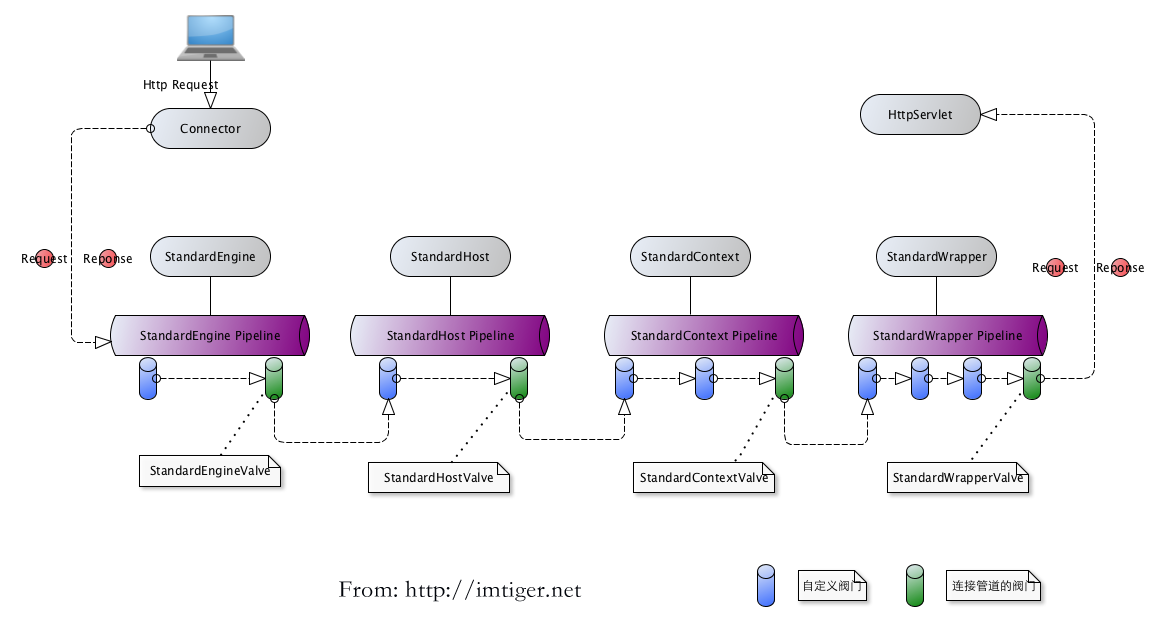
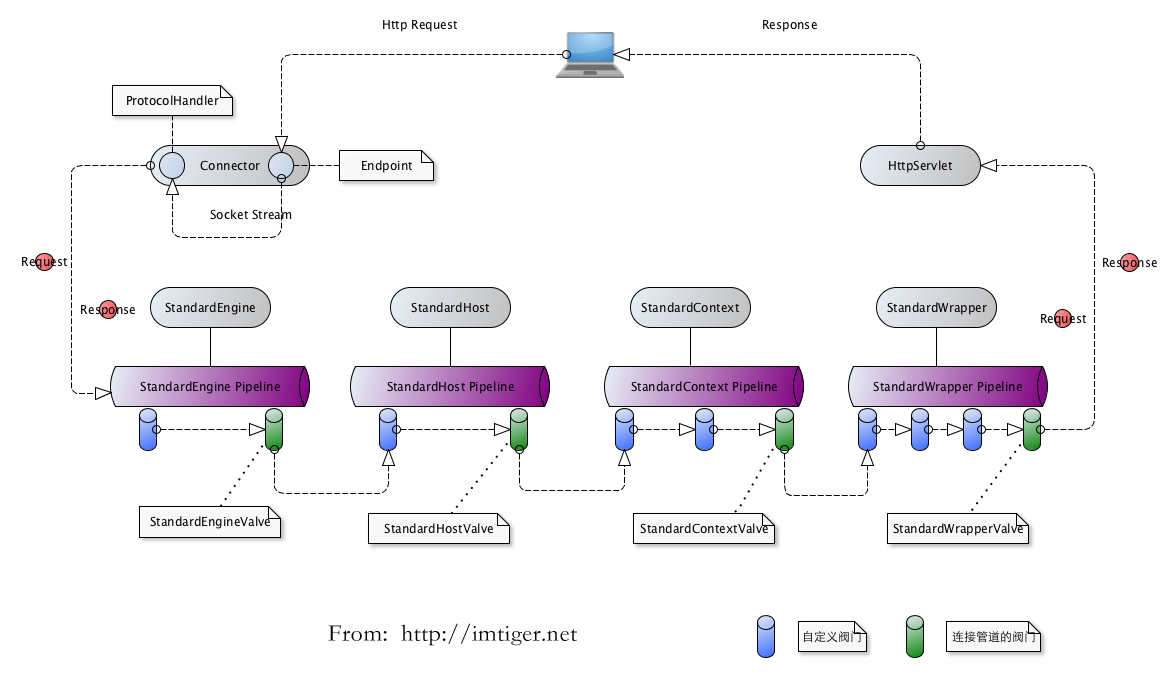
Site updated at 2013-11-13 08:21:36 UTC

diff --git a/blog/2013/10/24/tomcat-request-process/index.html b/blog/2013/10/24/tomcat-request-process/index.html
@@ -98,15 +98,16 @@
 本文是<a href="/blog/2013/10/08/tomcat-source-code-study/">Tomcat源代码阅读系列</a>的第五篇文章，本系列前四篇文章如下：<br/>
 <a href="/blog/2013/10/14/run-tomcat-in-idea-or-eclipse/">在IntelliJ IDEA 和 Eclipse运行tomcat 7源代码（Tomcat源代码阅读系列之一）</a> <br/>
 <a href="/blog/2013/10/16/tomcat-architecture/">Tomcat总体结构                             （Tomcat源代码阅读系列之二）</a><br/>
-<a href="/blog/2013/10/17/tomcat-start-process/">Tomcat启动过程（Tomcat源代码阅读系列之三）</a>
+<a href="/blog/2013/10/17/tomcat-start-process/">Tomcat启动过程（Tomcat源代码阅读系列之三）</a><br/>
 <a href="/blog/2013/10/21/tomcat-shutdown/">Tomcat关闭过程（Tomcat源代码阅读系列之四）</a></p>
 
-<p>前面已经分析完了Tomcat的启动和关闭过程，本篇就来接着分析一下Tomcat中请求的处理过程。</p>
+<p><img class="center" src="/images/2013/11/08/tomcat-pipeline.png">
+前面已经分析完了Tomcat的启动和关闭过程，本篇就来接着分析一下Tomcat中请求的处理过程。</p>
 
 <!-- more -->
 
 
-<p>在开始本文之前，咋们首先来看看一个Http请求处理的过程，一般情况下是<code>浏览器发送http请求-&gt;建立Socket连接-&gt;通过Socket读取数据-&gt;根据http协议解析数据-&gt;调用后台服务完成响应</code>,而Tomcat既是一个HttpServer也是一个Servlet 容器，那么这里必然也涉及到如上过程，首先根据HTTP协议规范解析请求数据，然后将请求转发给Servlet进行处理，因此顺应这样的思路，本文也将从<strong>Http协议请求解析</strong>，<strong>请求如何转发给Servlet</strong>两个方面来进行分析。首先来看Http协议请求解析。</p>
+<p>在开始本文之前，咋们首先来看看一个Http请求处理的过程，一般情况下是<code>浏览器发送http请求-&gt;建立Socket连接-&gt;通过Socket读取数据-&gt;根据http协议解析数据-&gt;调用后台服务完成响应</code>,详细的流程图如上图所示，等读者读完本篇，应该就清楚了上图所表达的意思。Tomcat既是一个HttpServer也是一个Servlet 容器，那么这里必然也涉及到如上过程，首先根据HTTP协议规范解析请求数据，然后将请求转发给Servlet进行处理，因此顺应这样的思路，本文也将从<strong>Http协议请求解析</strong>，<strong>请求如何转发给Servlet</strong>两个方面来进行分析。首先来看Http协议请求解析。</p>
 
 <h1>Http协议请求解析</h1>
 

diff --git a/blog/2013/09/27/java-engineer-recruitment/index.html b/blog/2013/09/27/java-engineer-recruitment/index.html
@@ -103,7 +103,7 @@
 月薪:    15k-20k</p>
 
 <p>公司介绍: <br/>
-我们公司<a href="http://www.ejushang.com">易居尚</a>秉承着<code>让品质走进生活的理念</code>，致力于打造一个品质、高效、便捷的居家用品网络销售平台.咋们公司不打卡，弹性工作制，每天下午有公司大厨做的下午茶，攻城狮童鞋每周可以自由支配20%的工作时间做自己想做的事情，我们技术团队内部有很强互助和知识分享意识（包括技术骚们喜欢的爱情动作片，嘘&hellip;，其他人我不告诉他）当然了还有很多美女和帅哥，想置身互联网和电子商务有理想的的技术骚们，请你加入我们 一起high，<strong>我们不求改变世界，但求超越自我</strong>。也请各位朋友帮忙推荐，推荐成功有神秘礼物相送哦，有意者请联系:<a href="&#109;&#97;&#x69;&#108;&#x74;&#x6f;&#x3a;&#x74;&#x69;&#103;&#x65;&#x72;&#x2e;&#122;&#104;&#x6f;&#117;&#64;&#107;&#x61;&#114;&#x69;&#x71;&#x75;&#x2e;&#99;&#111;&#x6d;">&#116;&#x69;&#x67;&#x65;&#x72;&#x2e;&#x7a;&#104;&#111;&#x75;&#64;&#x6b;&#x61;&#x72;&#105;&#113;&#117;&#x2e;&#x63;&#111;&#x6d;</a> 或者留言给我，另外也可以通过<a href="http://weibo.com/xmuzyq">@krq_tiger</a>新浪微博与我取的联系.</p>
+我们公司<a href="http://www.ejushang.com">易居尚</a>秉承着<code>让品质走进生活的理念</code>，致力于打造一个品质、高效、便捷的居家用品网络销售平台.咋们公司不打卡，弹性工作制，每天下午有公司大厨做的下午茶，攻城狮童鞋每周可以自由支配20%的工作时间做自己想做的事情，我们技术团队内部有很强互助和知识分享意识（包括技术骚们喜欢的爱情动作片，嘘&hellip;，其他人我不告诉他）当然了还有很多美女和帅哥，想置身互联网和电子商务有理想的的技术骚们，请你加入我们 一起high，<strong>我们不求改变世界，但求超越自我</strong>。也请各位朋友帮忙推荐，推荐成功有神秘礼物相送哦，有意者请联系:<a href="&#109;&#97;&#105;&#108;&#x74;&#111;&#58;&#116;&#105;&#x67;&#101;&#114;&#46;&#122;&#104;&#111;&#x75;&#x40;&#x6b;&#x61;&#114;&#x69;&#x71;&#117;&#46;&#x63;&#111;&#x6d;">&#116;&#105;&#x67;&#101;&#114;&#46;&#x7a;&#104;&#111;&#x75;&#64;&#107;&#97;&#114;&#105;&#113;&#117;&#46;&#x63;&#x6f;&#109;</a> 或者留言给我，另外也可以通过<a href="http://weibo.com/xmuzyq">@krq_tiger</a>新浪微博与我取的联系.</p>
 
 <!-- more -->
 

diff --git a/blog/page/2/index.html b/blog/page/2/index.html
@@ -130,7 +130,7 @@
 月薪:    15k-20k</p>
 
 <p>公司介绍: <br/>
-我们公司<a href="http://www.ejushang.com">易居尚</a>秉承着<code>让品质走进生活的理念</code>，致力于打造一个品质、高效、便捷的居家用品网络销售平台.咋们公司不打卡，弹性工作制，每天下午有公司大厨做的下午茶，攻城狮童鞋每周可以自由支配20%的工作时间做自己想做的事情，我们技术团队内部有很强互助和知识分享意识（包括技术骚们喜欢的爱情动作片，嘘&hellip;，其他人我不告诉他）当然了还有很多美女和帅哥，想置身互联网和电子商务有理想的的技术骚们，请你加入我们 一起high，<strong>我们不求改变世界，但求超越自我</strong>。也请各位朋友帮忙推荐，推荐成功有神秘礼物相送哦，有意者请联系:<a href="&#109;&#97;&#x69;&#108;&#x74;&#x6f;&#x3a;&#x74;&#x69;&#103;&#x65;&#x72;&#x2e;&#122;&#104;&#x6f;&#117;&#64;&#107;&#x61;&#114;&#x69;&#x71;&#x75;&#x2e;&#99;&#111;&#x6d;">&#116;&#x69;&#x67;&#x65;&#x72;&#x2e;&#x7a;&#104;&#111;&#x75;&#64;&#x6b;&#x61;&#x72;&#105;&#113;&#117;&#x2e;&#x63;&#111;&#x6d;</a> 或者留言给我，另外也可以通过<a href="http://weibo.com/xmuzyq">@krq_tiger</a>新浪微博与我取的联系.</p>
+我们公司<a href="http://www.ejushang.com">易居尚</a>秉承着<code>让品质走进生活的理念</code>，致力于打造一个品质、高效、便捷的居家用品网络销售平台.咋们公司不打卡，弹性工作制，每天下午有公司大厨做的下午茶，攻城狮童鞋每周可以自由支配20%的工作时间做自己想做的事情，我们技术团队内部有很强互助和知识分享意识（包括技术骚们喜欢的爱情动作片，嘘&hellip;，其他人我不告诉他）当然了还有很多美女和帅哥，想置身互联网和电子商务有理想的的技术骚们，请你加入我们 一起high，<strong>我们不求改变世界，但求超越自我</strong>。也请各位朋友帮忙推荐，推荐成功有神秘礼物相送哦，有意者请联系:<a href="&#109;&#97;&#105;&#108;&#x74;&#111;&#58;&#116;&#105;&#x67;&#101;&#114;&#46;&#122;&#104;&#111;&#x75;&#x40;&#x6b;&#x61;&#114;&#x69;&#x71;&#117;&#46;&#x63;&#111;&#x6d;">&#116;&#105;&#x67;&#101;&#114;&#46;&#x7a;&#104;&#111;&#x75;&#64;&#107;&#97;&#114;&#105;&#113;&#117;&#46;&#x63;&#x6f;&#109;</a> 或者留言给我，另外也可以通过<a href="http://weibo.com/xmuzyq">@krq_tiger</a>新浪微博与我取的联系.</p>
 
 
 		

diff --git a/blog/index.html b/blog/index.html
@@ -260,10 +260,11 @@
 本文是<a href="/blog/2013/10/08/tomcat-source-code-study/">Tomcat源代码阅读系列</a>的第五篇文章，本系列前四篇文章如下：<br/>
 <a href="/blog/2013/10/14/run-tomcat-in-idea-or-eclipse/">在IntelliJ IDEA 和 Eclipse运行tomcat 7源代码（Tomcat源代码阅读系列之一）</a> <br/>
 <a href="/blog/2013/10/16/tomcat-architecture/">Tomcat总体结构                             （Tomcat源代码阅读系列之二）</a><br/>
-<a href="/blog/2013/10/17/tomcat-start-process/">Tomcat启动过程（Tomcat源代码阅读系列之三）</a>
+<a href="/blog/2013/10/17/tomcat-start-process/">Tomcat启动过程（Tomcat源代码阅读系列之三）</a><br/>
 <a href="/blog/2013/10/21/tomcat-shutdown/">Tomcat关闭过程（Tomcat源代码阅读系列之四）</a></p>
 
-<p>前面已经分析完了Tomcat的启动和关闭过程，本篇就来接着分析一下Tomcat中请求的处理过程。</p>
+<p><img class="center" src="/images/2013/11/08/tomcat-pipeline.png">
+前面已经分析完了Tomcat的启动和关闭过程，本篇就来接着分析一下Tomcat中请求的处理过程。</p>
 
 
 		

diff --git a/index.html b/index.html
@@ -261,10 +261,11 @@
 本文是<a href="/blog/2013/10/08/tomcat-source-code-study/">Tomcat源代码阅读系列</a>的第五篇文章，本系列前四篇文章如下：<br/>
 <a href="/blog/2013/10/14/run-tomcat-in-idea-or-eclipse/">在IntelliJ IDEA 和 Eclipse运行tomcat 7源代码（Tomcat源代码阅读系列之一）</a> <br/>
 <a href="/blog/2013/10/16/tomcat-architecture/">Tomcat总体结构                             （Tomcat源代码阅读系列之二）</a><br/>
-<a href="/blog/2013/10/17/tomcat-start-process/">Tomcat启动过程（Tomcat源代码阅读系列之三）</a>
+<a href="/blog/2013/10/17/tomcat-start-process/">Tomcat启动过程（Tomcat源代码阅读系列之三）</a><br/>
 <a href="/blog/2013/10/21/tomcat-shutdown/">Tomcat关闭过程（Tomcat源代码阅读系列之四）</a></p>
 
-<p>前面已经分析完了Tomcat的启动和关闭过程，本篇就来接着分析一下Tomcat中请求的处理过程。</p>
+<p><img class="center" src="/images/2013/11/08/tomcat-pipeline.png">
+前面已经分析完了Tomcat的启动和关闭过程，本篇就来接着分析一下Tomcat中请求的处理过程。</p>
 
 
 		
